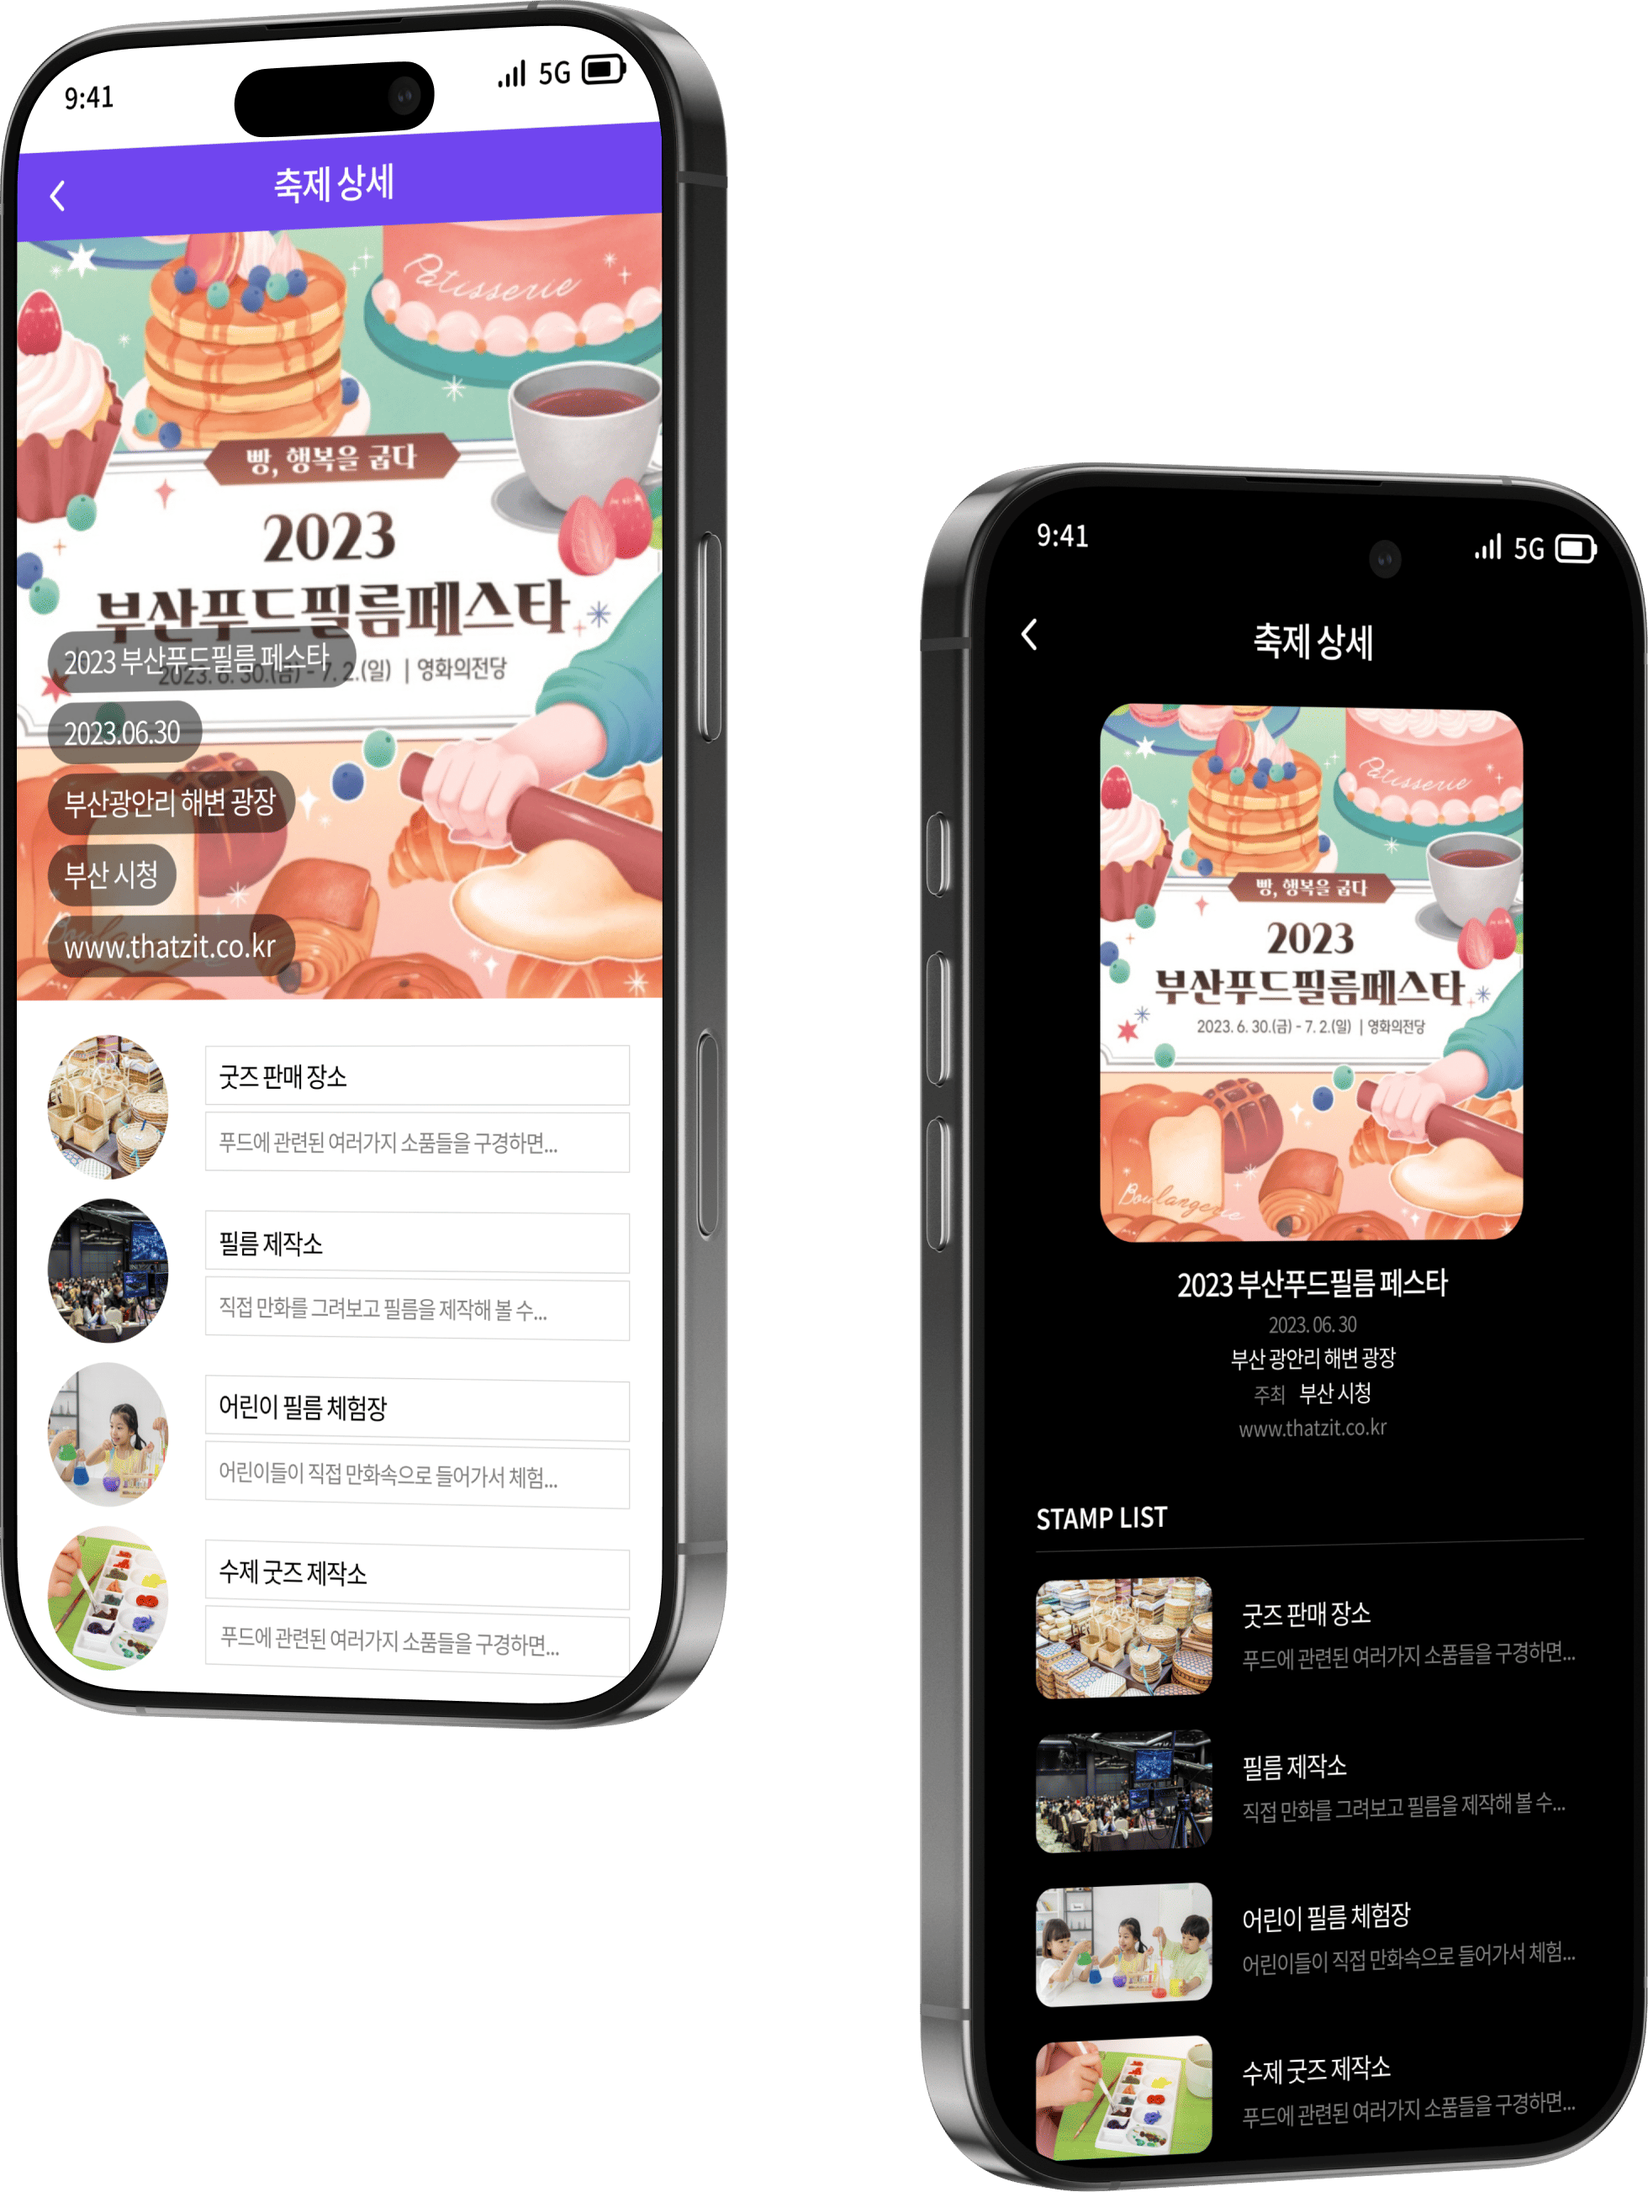
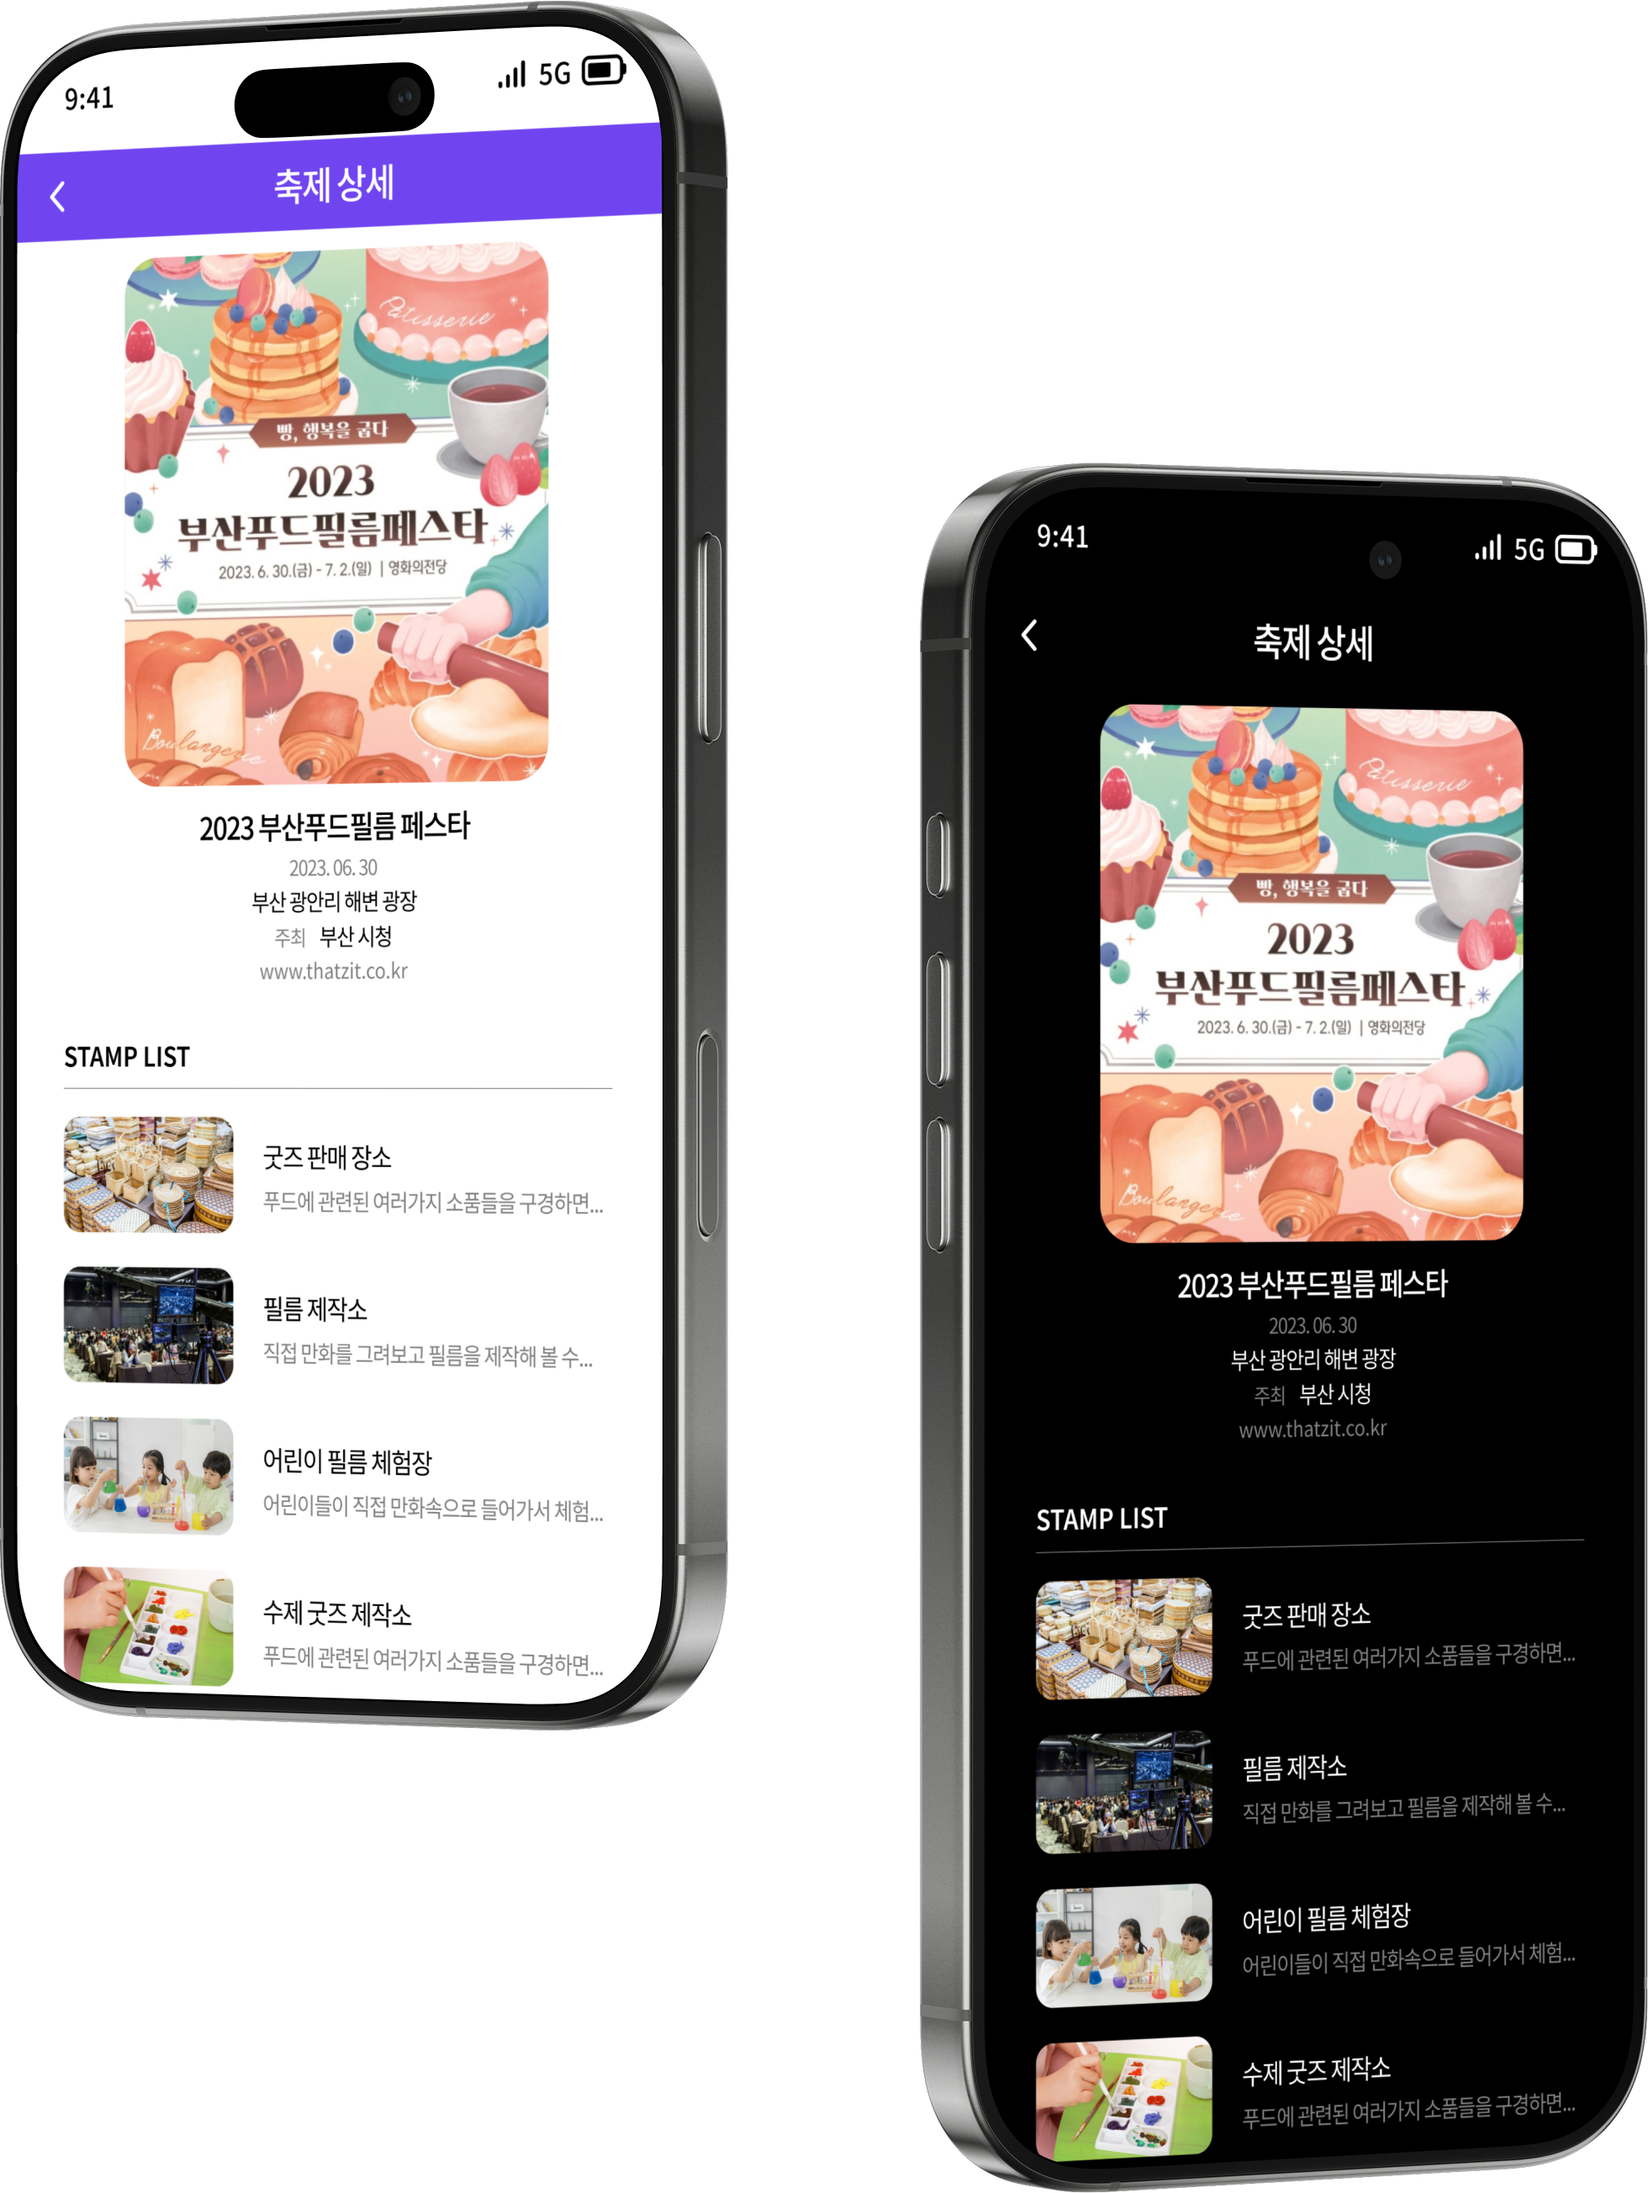
250310

diff --git a/direct/preview.html b/direct/preview.html
@@ -138,7 +138,7 @@
                   <!-- 취소 아이콘 클릭 시 프리뷰 에서 이미지가 삭제되지 않음 -->
                   <!-- <div class="icon_img_cancel"></div> -->
                   <input type="file" id="imageUpload" class="upload_hidden"
-                    onchange="previewImage('imageUpload', 'previewLight')">
+                    onchange="previewImage('imageUpload', 'previewDark')">
                 </div>
                 <label for="imageUpload" class="btn_file_upload">첨부</label>
               </div>
@@ -289,56 +289,46 @@
             </div>
             <h2 class="preview_heading">공지 및 스탬프 조건 등록하기</h2>
             <div class="form_group">
-              <div class="con_title">공지사항</div>
+              <div class="con_title">공지사항 팝업<span class="con_span">축제 상세화면 최초에 보여지는 팝업</span></div>
               <div class="d_flex">
                 <div class="radio_area">
-                  <input type="radio" class="input_radio" id="noticeRadio01" name="noticeRadio">
+                  <input type="radio" class="input_radio" id="noticeRadio01" name="noticeRadio" checked>
                   <label for="noticeRadio01">사용함</label>
                 </div>
                 <div class="radio_area">
-                  <input type="radio" class="input_radio" id="noticeRadio02" name="noticeRadio" checked>
+                  <input type="radio" class="input_radio" id="noticeRadio02" name="noticeRadio">
                   <label for="noticeRadio02">사용하지 않음</label>
                 </div>
               </div>
-              <input type="text" class="input_form" id="noticeText">
+              <div id="noticeText">
+                <textarea type="text" class="input_form text_area_form" placeholder="공지사항을 입력해주세요." id="eventnotice"></textarea>
+                <div class="preview_notice">
+                  <div class="popup_area">
+                    <div class="title">Notice</div>
+                    <div class="notice_contents">공지사항을 입력해주세요.</div>
+                    <div class="btn_popup_area">
+                      <div>닫기</div>
+                      <div class="text_main">확인</div>
+                    </div>
+                  </div>
+                </div>
+              </div>
             </div>
             <div class="form_group">
-              <div class="con_title">스탬프 조건</div>
-              <div class="checkbox mt">
-                <input type="checkbox" name="checkbox1" id="checkbox1" class="input" checked>
-                <label class="label" for="checkbox1">
-                  <div class="check_input">
-                    <div>스탬프</div>
-                    <input type="text" class="input_form size_01" maxlength="1">
-                    <div>개 모으시면</div>
-                    <input type="text" class="input_form size_02">
-                    <div>을(를) 드립니다.</div>
-                  </div>
-                </label>
+              <div class="con_title">선물 신청 조건<span class="con_span">축제 상세화면 정보탭에서 보여집니다.</span></div>
+              <div class="stamp_input">
+                <div>스탬프</div>
+                <input type="text" class="input_form size_01" maxlength="1" value="3" id="stampNum">
+                <div>개 모으시면</div>
+                <input type="text" class="input_form size_02" value="스타벅스 1만원 쿠폰" id="stampGift">
+                <div>을(를) 드립니다.</div>
               </div>
-              <div class="checkbox">
-                <input type="checkbox" name="checkbox2" id="checkbox2" class="input">
-                <label class="label" for="checkbox2">
-                  <div class="check_input">
-                    <div>스탬프</div>
-                    <input type="text" class="input_form size_01" maxlength="1">
-                    <div>개 모으시면</div>
-                    <input type="text" class="input_form size_02">
-                    <div>을(를) 드립니다.</div>
-                  </div>
-                </label>
-              </div>
-              <div class="checkbox">
-                <input type="checkbox" name="checkbox3" id="checkbox3" class="input">
-                <label class="label" for="checkbox3">
-                  <div class="check_input">
-                    <div>스탬프</div>
-                    <input type="text" class="input_form size_01" maxlength="1">
-                    <div>개 모으시면</div>
-                    <input type="text" class="input_form size_02">
-                    <div>을(를) 드립니다.</div>
-                  </div>
-                </label>
+              <span class="con_span ml_0 pt_20">예시 화면</span>
+              <div class="gift_condition_area">
+                <div class="box">
+                  <div class="title">선물 안내</div>
+                  <div class="gift_contents">스탬프 <span class="text_main" id="prevStampNum">3</span>개 모으시면 <span class="text_main" id="prevStampGift">스타벅스 1만원 쿠폰</span>을(를) 드립니다.</div>
+                </div>
               </div>
             </div>
           </form>

diff --git a/direct/css/ui.css b/direct/css/ui.css
@@ -3066,58 +3066,91 @@ input[type=radio]:checked {
 .ml_0 {
   margin-left: 0 !important;
 }
-/* checkbox */
-.checkbox {
-  margin-top: 4px;
-  display: flex;
-  align-items: center;
-  position: relative;
+
+.input_form.text_area_form{
+  min-height: 140px;
 }
-.checkbox.mt {
-  margin-top: 12px;
-}
-.checkbox .input {
-  position: absolute;
-  opacity: 0;
-}
-.checkbox .label {
-  display: inline-block;
-  align-items: center;
-  position: relative;
-  padding: 0 0 0 30px;
-  line-height: 20px;
-  cursor: pointer;
-  font-weight: 400;
-}
-.checkbox input+.label:before {
-  content: '';
-  position: absolute;
-  top: 50%;
-  left: 0;
-  transform: translateY(-50%);
-  border: 1px solid #eee;
-  width: 20px;
-  height: 20px;
-  overflow: hidden;
-  border-radius: 2px;
-}
-.checkbox input:checked+.label:before {
-  background: url('../images/icon_check.svg') 50% 50% no-repeat var(--main_blue);
-  border-color: var(--main_blue);
-  background-size: 12px auto;
-}
-.check_input{
+.stamp_input{
   display: flex;
   white-space: nowrap;
   align-items: center;
+  margin-bottom: 20px;
 }
-.check_input input{
+.stamp_input input{
   margin: 0 6px;
   padding: 6px !important;
 }
-.check_input input.size_01{
+.stamp_input input.size_01{
   width: 26px;
 }
+.preview_notice, .gift_condition_area{
+  width: 100%;
+  height: 100%;
+  min-height: 200px;
+  border: 1px solid #eee;
+  margin-top: 8px;
+  background-color: rgba(0, 0, 0, 0.5);
+  border-radius: 4px;
+  padding: 30px;
+  display: flex;
+  justify-content: center;
+  align-items: center;
+}
+.preview_notice .popup_area{
+  max-width: 320px;
+  width: 100%;
+  height: 100%;
+  background-color: #2E3440;
+  border-radius: 12px;
+}
+.preview_notice .title{
+  text-align: center;
+  color: var(--wht);
+  margin-top: 32px;
+  font-size: 18px;
+}
+.preview_notice .notice_contents{
+  color: #828998;
+  font-size: 16px;
+  margin: 20px 20px 32px;
+}
+.preview_notice .btn_popup_area{
+  display: flex;
+  justify-content: space-between;
+  text-align: center;
+  border-top: 1px solid #4E5366;
+}
+.preview_notice .btn_popup_area div{
+  width: 50%;
+  color: #BBC2CE;
+  font-weight: 600;
+  font-size: 14px;
+  padding: 14px 0;
+}
+.preview_notice .btn_popup_area div:first-of-type{
+  border-right: 1px solid #4E5366;
+}
+.preview_notice .btn_popup_area div.text_main{
+  color: var(--main_blue);
+}
+.gift_condition_area{
+  background-color: var(--black);
+}
+.gift_condition_area .box{
+  width: 100%;
+  background-image: linear-gradient(#181B23,#2E3440);
+  color: var(--wht);
+}
+.gift_condition_area .box .title{
+  font-size: 20px;
+  padding: 20px;
+  border-bottom: 2px solid var(--black);
+}
+.gift_condition_area .box .gift_contents{
+  padding: 20px;
+  line-height: 1.5;
+}
+
 
 
 
@@ -4067,7 +4100,10 @@ input[type=radio]:checked {
     text-align: left;
     font-size: 15px;
   }
-
+  .s_sec_02_head_02,
+  .s_sec_02_text_02{
+    text-align: right;
+  }
   .s_sec_02_text_02.text_white.text_right,
   .s_sec_02_text_02.text_right {
     text-align: right;

diff --git a/direct/js/preview.js b/direct/js/preview.js
@@ -47,6 +47,8 @@ addInputEventListener('eventDate', 'previewEventDate');
 addInputEventListener('eventLocation', 'previewEventLocation');
 addInputEventListener('eventorganizer', 'previewEventHost');
 addInputEventListener('eventwebsite', 'previewEventHomepage');
+addInputEventListener('stampNum', 'prevStampNum');
+addInputEventListener('stampGift', 'prevStampGift');
 
 function updatePreview(inputId, previewId) {
 	const inputElement = document.getElementById(inputId);
@@ -72,6 +74,21 @@ function previewImage(inputId, previewId) {
 		preview.style.backgroundImage = 'none';
 	}
 }
+
+// 공지사항 미리보기
+document.addEventListener("DOMContentLoaded", function () {
+    var eventNotice = document.getElementById("eventnotice");
+    var noticeContents = document.querySelector(".notice_contents");
+
+    eventNotice.addEventListener("input", function () {
+        var inputText = eventNotice.value;
+        if (inputText.trim() === "") {
+            noticeContents.innerHTML = "공지사항을 입력해주세요.";
+        } else {
+            noticeContents.innerHTML = inputText.replace(/\n/g, "<br>");
+        }
+    });
+});
 
 // jQuery를 사용한 datepicker 설정
 $(document).ready(function () {

diff --git a/direct/service.html b/direct/service.html
@@ -83,13 +83,13 @@
       <div class="s_sec_02_wrap position_relative">
         <div class="light_mode">
           <h3 class="s_sec_02_head">LIGHT MODE</h3>
-          <div class="s_sec_02_text">둥글둥글 부드러운<br>무드의 디자인</div>
-        </div><img src="images/iphone_mode.png" loading="lazy"
+          <div class="s_sec_02_text">자연광이 많은 낮 시간<br>동안 가독성이 좋음</div>
+          </div><img src="images/iphone_mode.png" loading="lazy"
           alt="" class="s_sec_02_img">
-        <div class="dark_mode">
-          <h3 class="s_sec_02_head_02 text_right">DARK MODE</h3>
-          <div class="s_sec_02_text_02 text_right">눈의 피로도 감소<br>스퀘어 타입의 세련된<br>디자인</div>
-        </div>
+          <div class="dark_mode">
+          <h3 class="s_sec_02_head_02">DARK MODE</h3>
+          <div class="s_sec_02_text_02">눈의 피로도 감소<br>더 세련되고 현대적인<br>분위기</div>
+          </div>
       </div>
       <h2 class="s_sec_02_head_03 pre_mebium_30 text_center">오직 <span class="text_span_main">다이렉트</span>에서만 가능한 선택형 디자인
       </h2>
